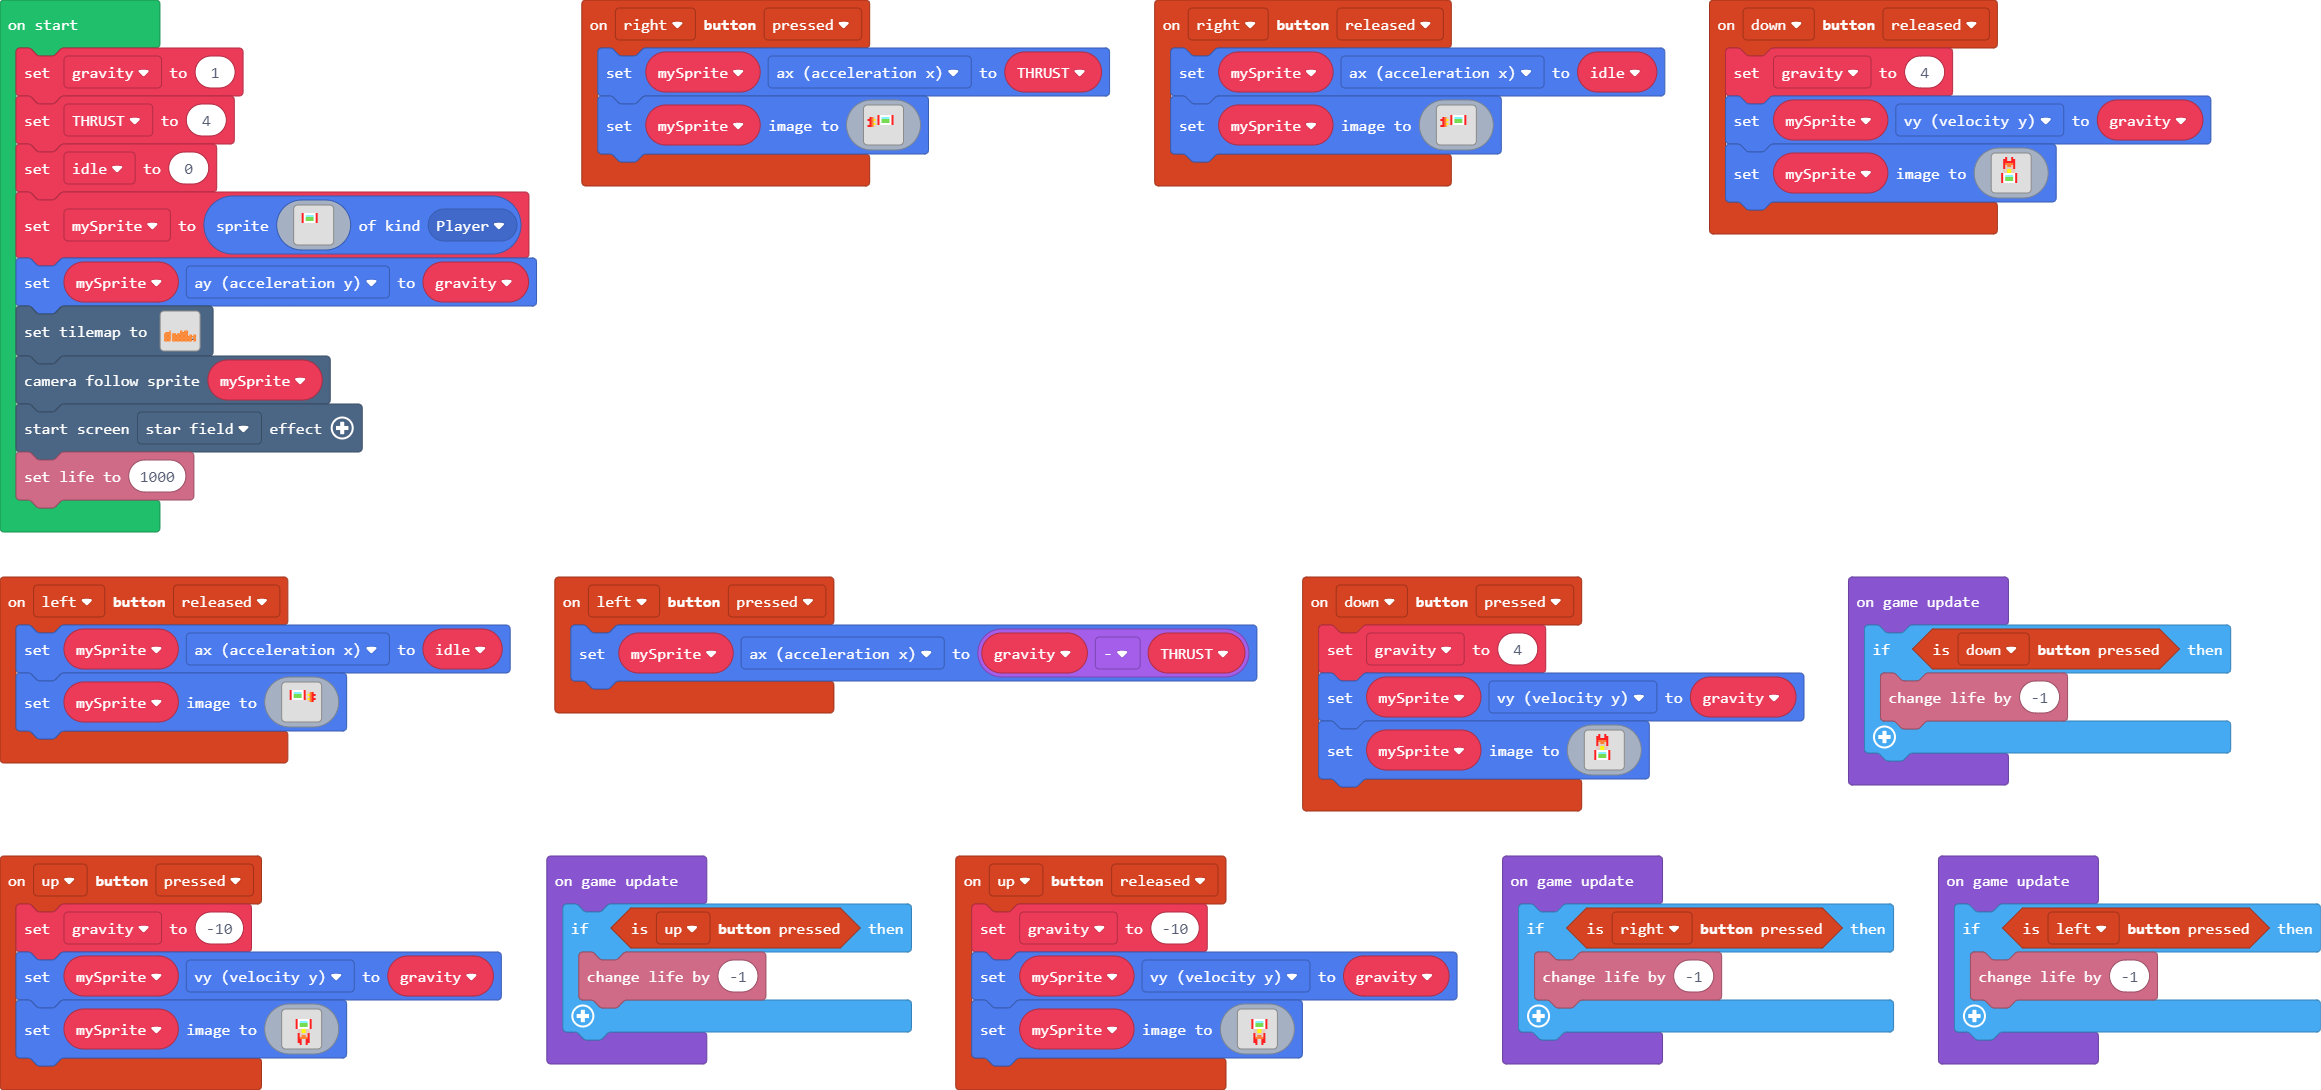
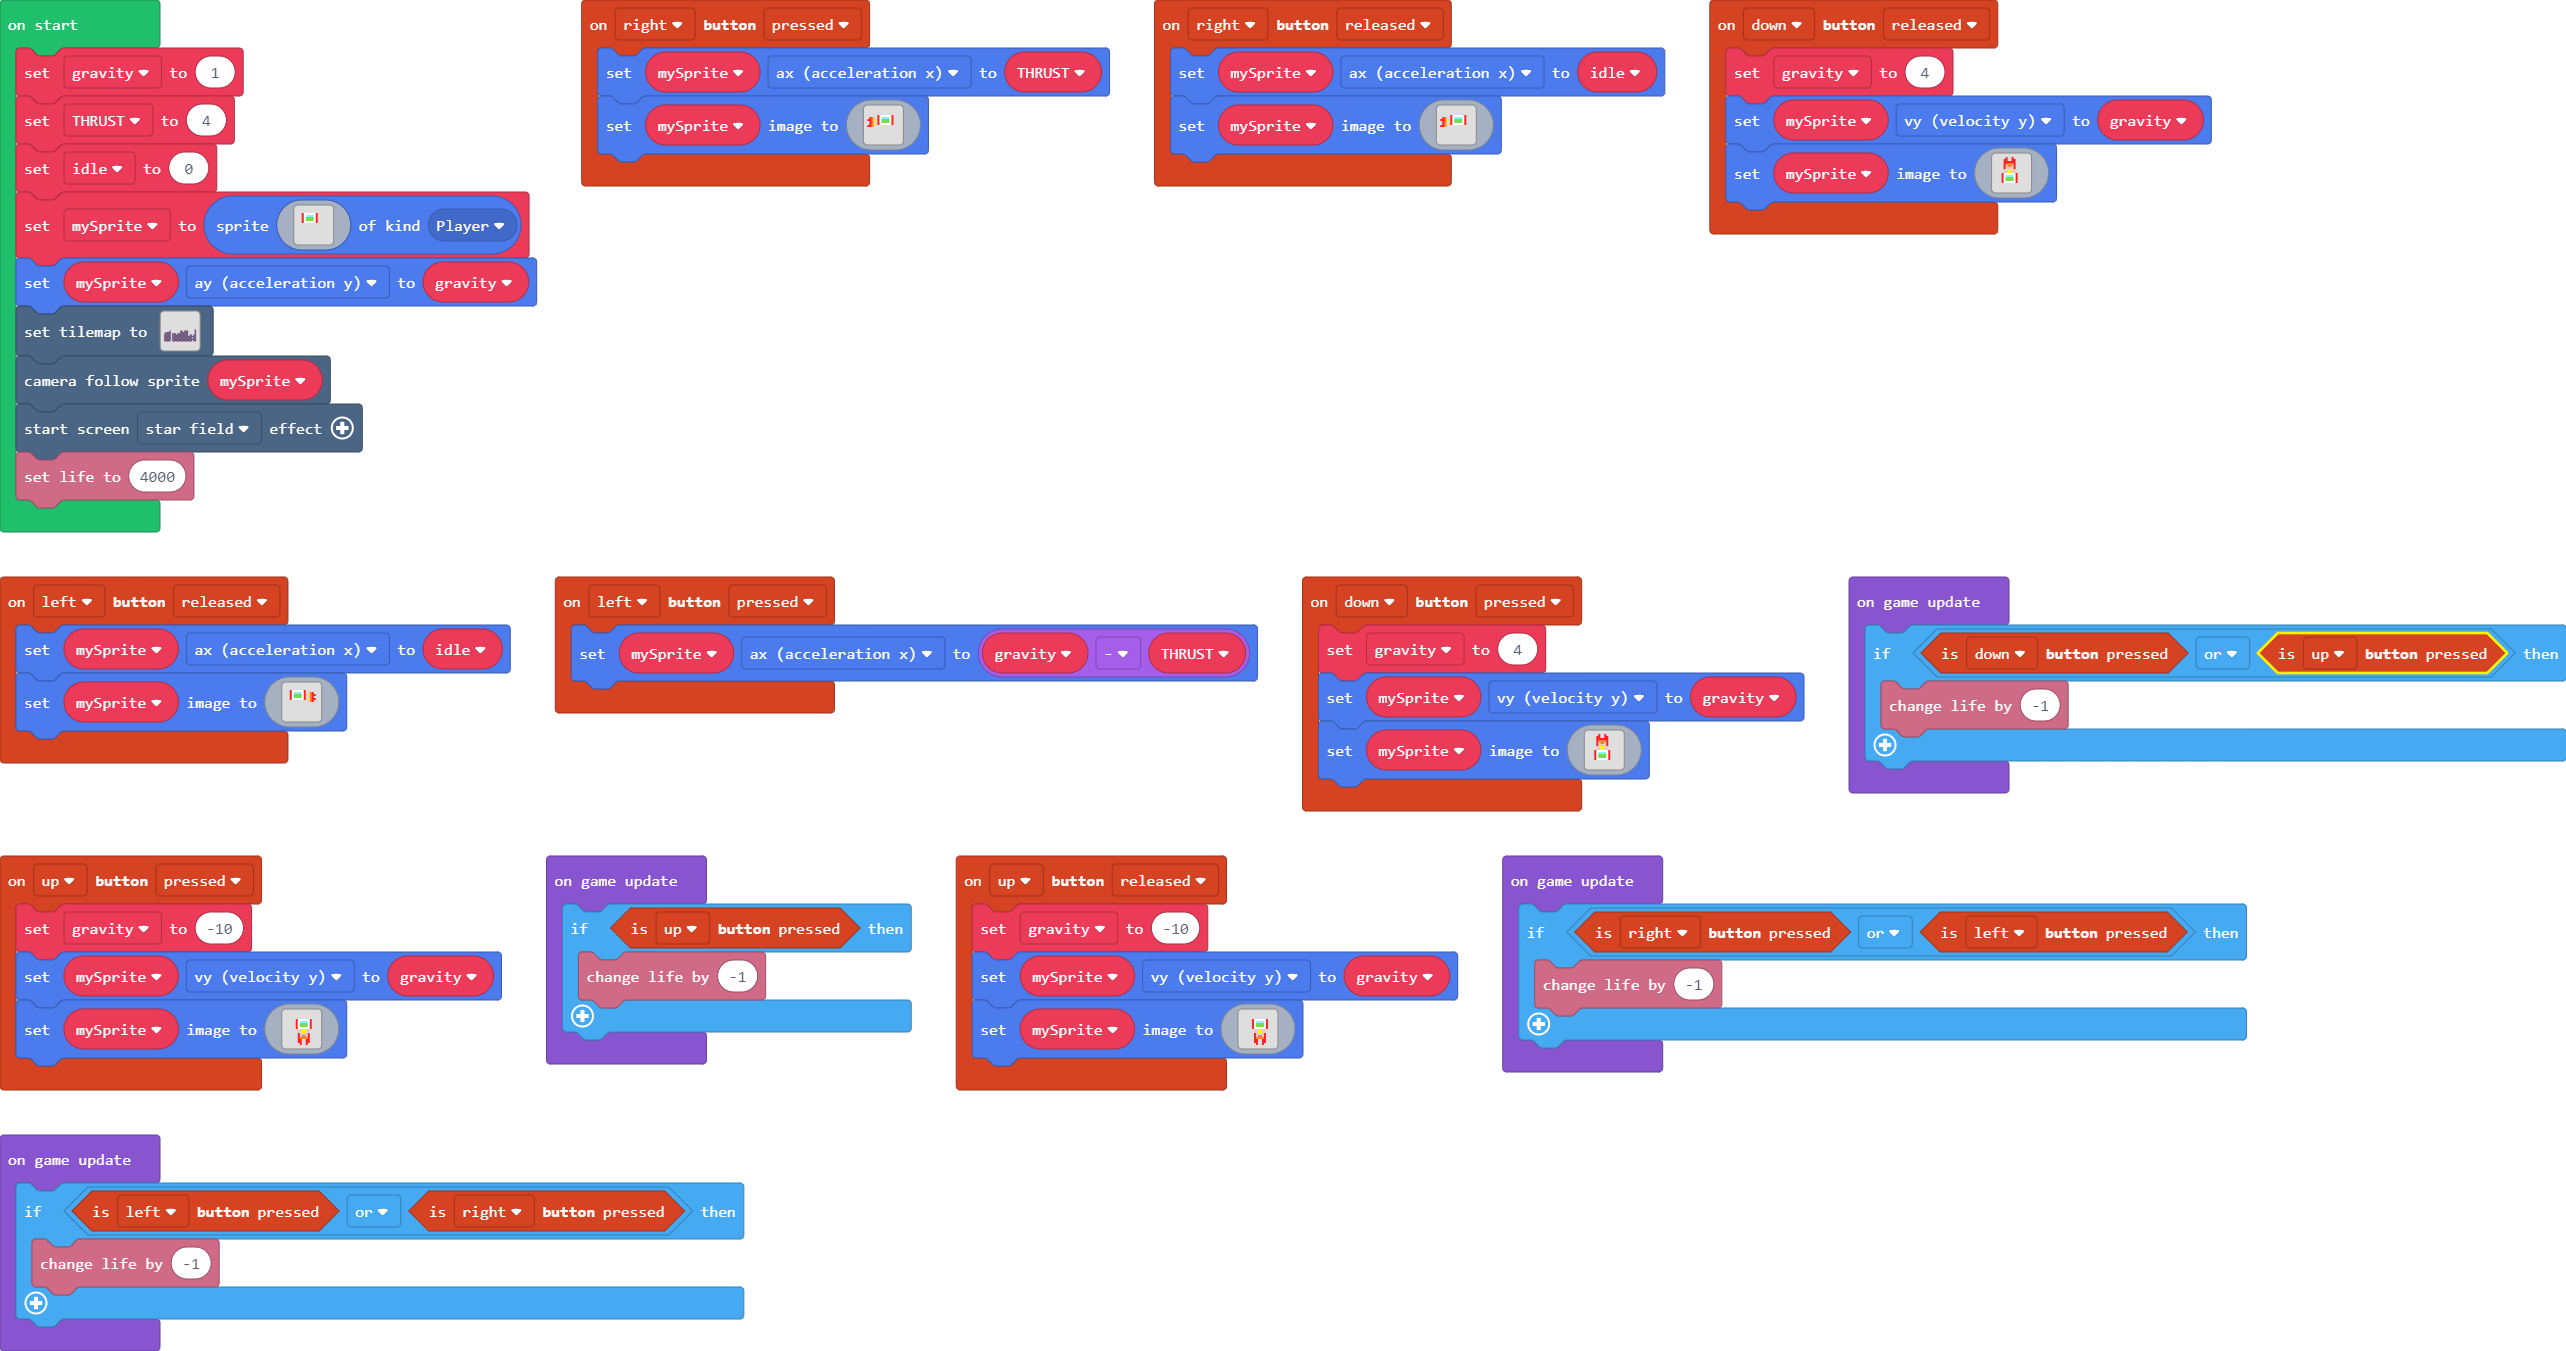
Update main.blocks, main.ts

diff --git a/main.ts b/main.ts
@@ -276,7 +276,7 @@ mySprite = sprites.create(img`
 `, SpriteKind.Player)
 mySprite.ay = gravity
 tiles.setTilemap(tiles.createTilemap(
-            hex`18001000000000000000000000000000000000000000000000000000000000000000000000000000000000000000000000000000000000000000000000000000000000000000000000000000000000000000000000000000000000000000000000000000000000000000000000000000000000000000000000000000000000000000000000000000000000000000000000000000000000000000000000000000000000000000000000000004000000000000000000000000000000000000000000000000000000000500000000000000050504050505000000000000040505050500000000000000050505050505000000000000050505050500050505040505050505050505000000000000050505050500050505050505050505050505040505040505050505050500050505050505050505050505050505070505050505050500050505050505050505050505050505010505050505050500050505050505050505050505050505080505050505050504050505050505050505050505050505040505`,
[1 lines of base64/hex data omitted]
             img`
 . . . . . . . . . . . . . . . . . . . . . . . . 
 . . . . . . . . . . . . . . . . . . . . . . . . 
@@ -293,16 +293,16 @@ tiles.setTilemap(tiles.createTilemap(
 . . . . . . . . . . . . . . . . . . . . . . . . 
 . . . . . . . . . . . . . . . . . . . . . . . . 
 . . . . . . . . . . . . . . . . . . . . . . . . 
-. . . . . . . . . . . . . . . . . . . . . . . . 
+. . . . . . . . . . . . . . . . . . . . . 2 . . 
 `,
-            [myTiles.tile0,myTiles.tile1,myTiles.tile2,sprites.builtin.crowd7,sprites.builtin.brick,sprites.dungeon.hazardLava0,sprites.vehicle.roadTurn2,sprites.dungeon.hazardLava1,myTiles.tile3,myTiles.tile4],
+            [myTiles.tile0,myTiles.tile1,myTiles.tile2,sprites.builtin.crowd7,sprites.builtin.brick,sprites.dungeon.hazardLava0,sprites.vehicle.roadTurn2,sprites.dungeon.hazardLava1,myTiles.tile3,myTiles.tile4,sprites.dungeon.darkGroundNorthEast0],
             TileScale.Sixteen
         ))
 scene.cameraFollowSprite(mySprite)
 effects.starField.startScreenEffect()
-info.setLife(1000)
+info.setLife(4000)
 game.onUpdate(function () {
-    if (controller.down.isPressed()) {
+    if (controller.down.isPressed() || controller.up.isPressed()) {
         info.changeLifeBy(-1)
     }
 })
@@ -312,12 +312,12 @@ game.onUpdate(function () {
     }
 })
 game.onUpdate(function () {
-    if (controller.right.isPressed()) {
+    if (controller.right.isPressed() || controller.left.isPressed()) {
         info.changeLifeBy(-1)
     }
 })
 game.onUpdate(function () {
-    if (controller.left.isPressed()) {
+    if (controller.left.isPressed() || controller.right.isPressed()) {
         info.changeLifeBy(-1)
     }
 })
